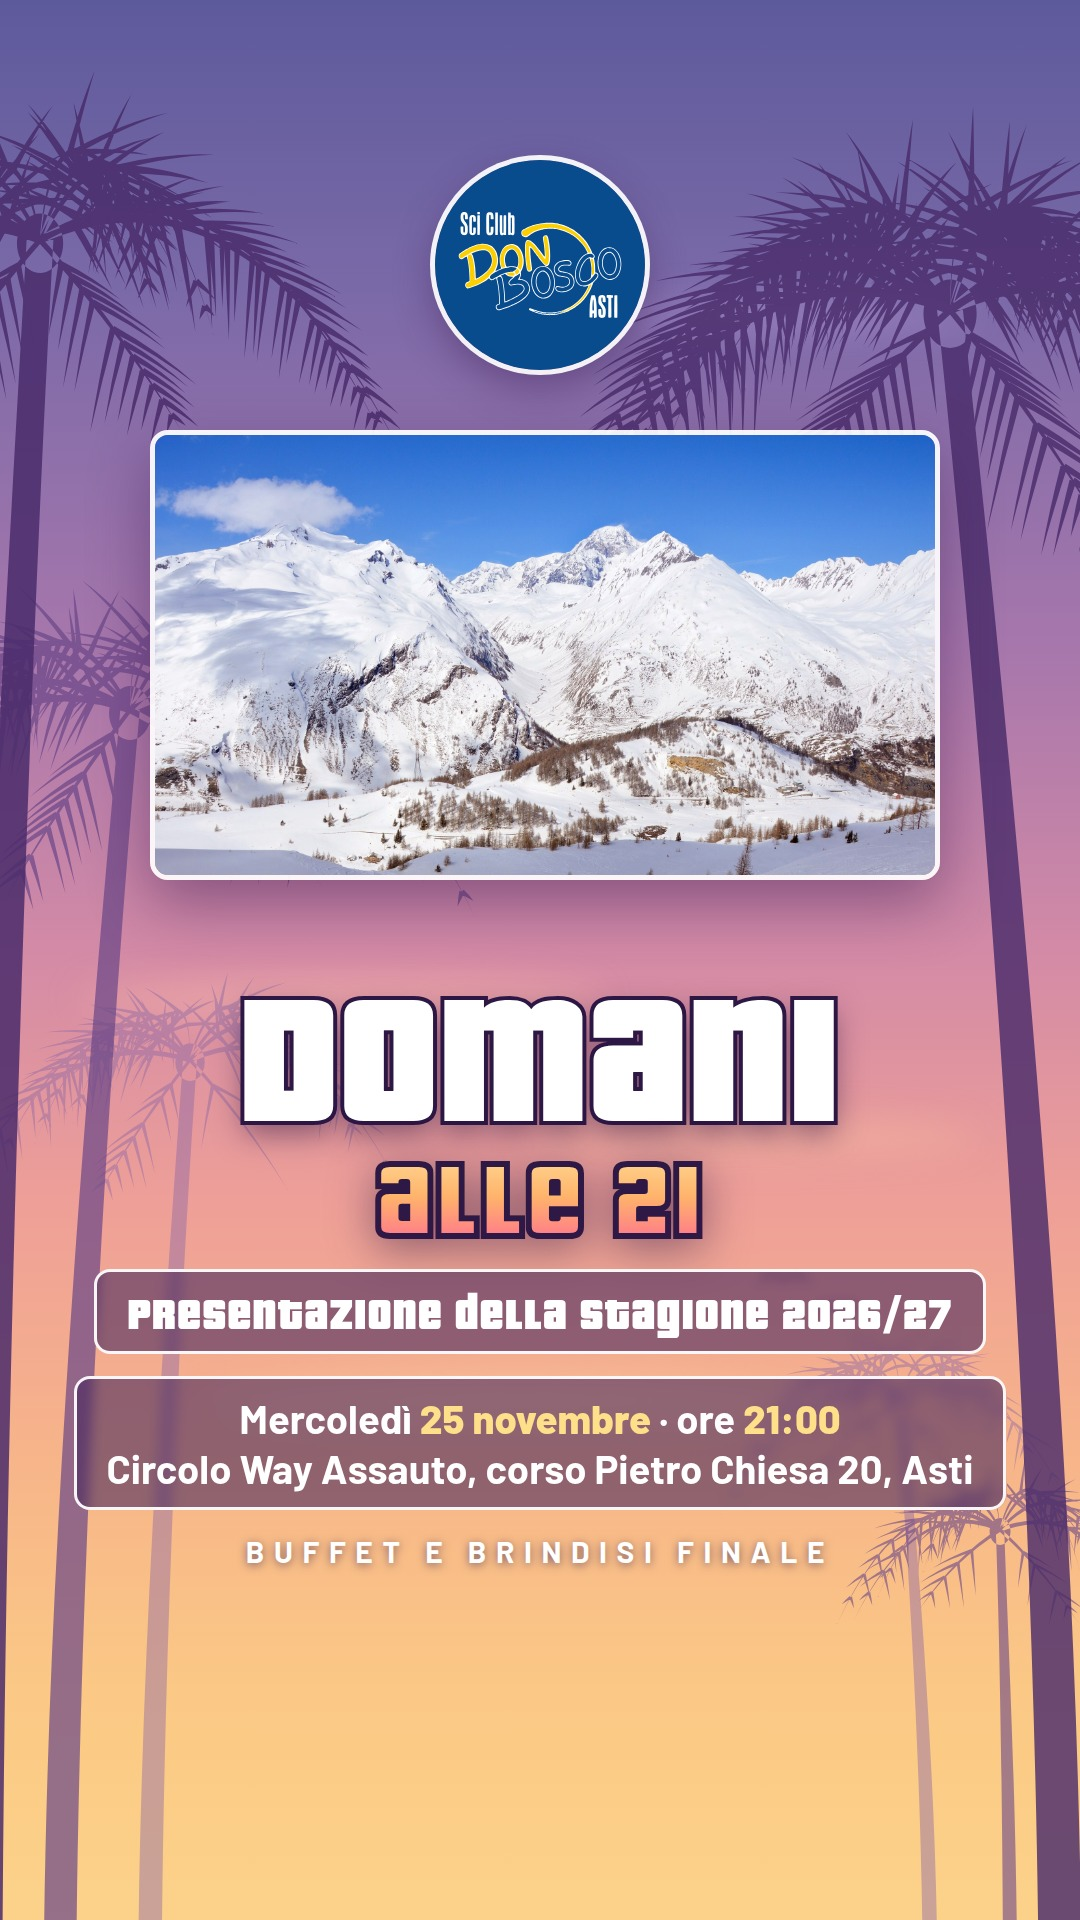
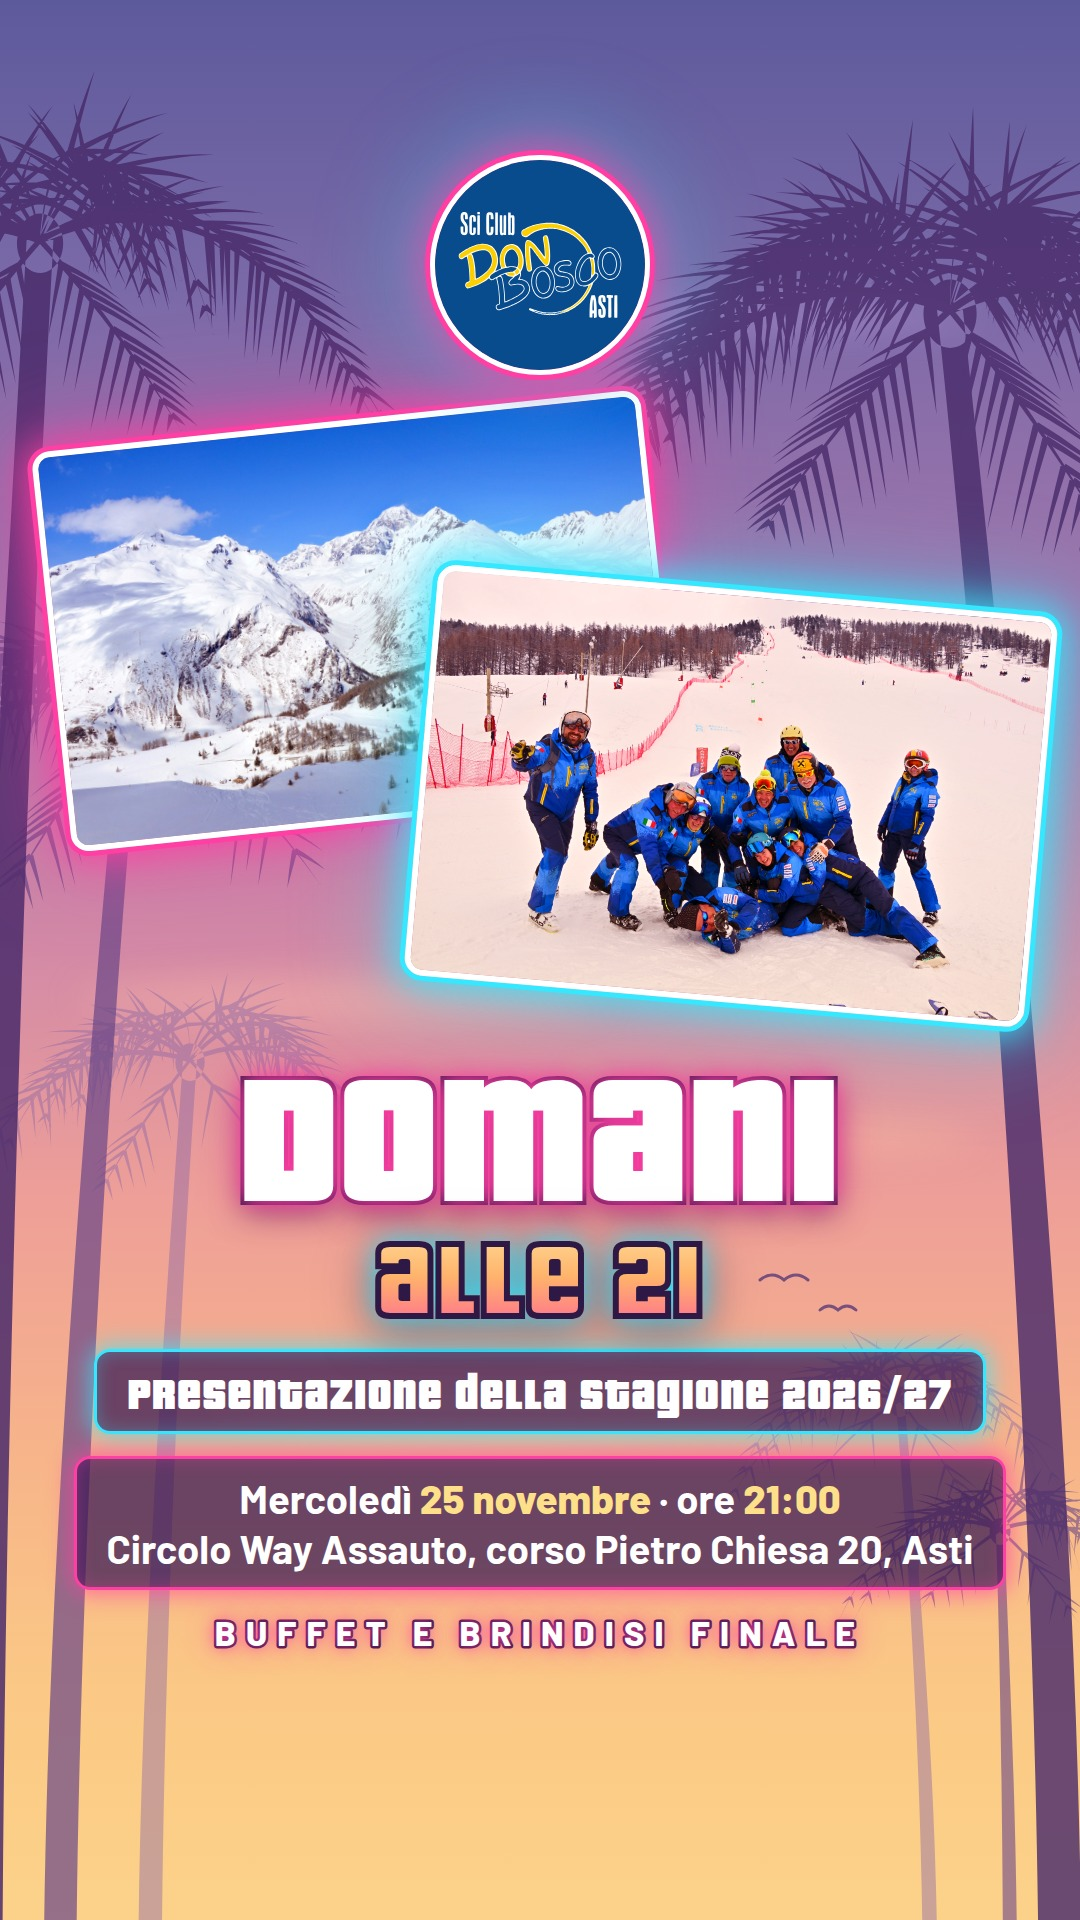
feat(grafica): storie GTA con due foto di sbieco e il neon
Richiesta del 24/11/2026: sfondo e testi invariati; al posto della foto singola il Monte Bianco e
la foto di gruppo (dall'originale nitido del volantino) di sbieco, con le cornici al neon rosa e
azzurro; luce al neon sulle scritte, sui riquadri delle informazioni e attorno al logo; «Buffet e
brindisi finale» in bianco col bordo viola, leggibile sul pesca. PRONTO [] per entrambe.

diff --git a/grafica/lancio-stagione/sorgenti/storie-gta.html b/grafica/lancio-stagione/sorgenti/storie-gta.html
@@ -24,31 +24,38 @@
     .nuvola { position: absolute; border-radius: 50%; filter: blur(18px); }
     .palme { position: absolute; left: 0; top: 0; width: 1080px; height: 1920px; }
 
-    /* La foto della montagna, frontale, con il bordo bianco sottile e l'ombra morbida. */
-    .foto { position: absolute; left: 150px; top: 430px; width: 780px; height: 440px; z-index: 3; border-radius: 18px; overflow: hidden;
-      border: 5px solid rgba(255, 255, 255, .92); box-shadow: 0 24px 60px rgba(60, 25, 80, .45); }
-    .foto img { width: 100%; height: 100%; object-fit: cover; object-position: 70% 30%; display: block; filter: saturate(1.15); }
+    /* Due foto di sbieco (richiesta del 24/11): il Monte Bianco e il gruppo, con la cornice al neon rosa e azzurra. */
+    .foto { position: absolute; z-index: 3; border-radius: 18px; overflow: hidden; border: 6px solid #fff; }
+    .foto img { width: 100%; height: 100%; object-fit: cover; display: block; filter: saturate(1.3) contrast(1.05); }
+    .foto.monte { left: 50px; top: 420px; width: 600px; height: 390px; transform: rotate(-6deg);
+      box-shadow: 0 0 0 5px #ff3fa4, 0 0 34px 10px rgba(255, 63, 164, .8), 0 0 90px 24px rgba(255, 63, 164, .35); }
+    .foto.gruppo { left: 420px; top: 590px; width: 610px; height: 400px; transform: rotate(5deg); z-index: 4;
+      box-shadow: 0 0 0 5px #35e8ff, 0 0 34px 10px rgba(53, 232, 255, .8), 0 0 90px 24px rgba(53, 232, 255, .35); }
     .foto::after { content: ""; position: absolute; inset: 0; mix-blend-mode: soft-light;
-      background: linear-gradient(180deg, rgba(150, 120, 200, .55), rgba(255, 170, 130, .5)); }
+      background: linear-gradient(180deg, rgba(180, 110, 220, .5), rgba(255, 140, 120, .5)); }
 
     #logo { position: absolute; left: 50%; top: 160px; width: 210px; height: 210px; transform: translateX(-50%); z-index: 6;
-      border-radius: 50%; box-shadow: 0 0 0 5px rgba(255, 255, 255, .92), 0 16px 40px rgba(60, 25, 80, .45); }
+      border-radius: 50%; box-shadow: 0 0 0 5px #fff, 0 0 0 10px #ff3fa4, 0 0 40px 14px rgba(255, 63, 164, .7), 0 0 90px 30px rgba(53, 232, 255, .35); }
 
     /* Scritte: Pricedown bianco col bordo viola scuro, come le scritte del gioco; le informazioni in riquadri
      * velati col bordo bianco, che si leggono anche sul pesca del tramonto. */
-    .testi { position: absolute; left: 60px; right: 60px; top: 960px; z-index: 7; text-align: center; }
+    .testi { position: absolute; left: 60px; right: 60px; top: 1040px; z-index: 7; text-align: center; }
     .grande { font: 900 190px/0.9 Pricedown, sans-serif; letter-spacing: .01em; color: #fff;
-      -webkit-text-stroke: 8px #2d1846; paint-order: stroke fill; text-shadow: 0 12px 30px rgba(45, 24, 70, .55); }
+      -webkit-text-stroke: 8px #2d1846; paint-order: stroke fill;
+      text-shadow: 0 0 18px #ff3fa4, 0 0 42px rgba(255, 63, 164, .85), 0 12px 30px rgba(45, 24, 70, .55); }
     .ora { margin-top: 4px; font: 900 112px/1 Pricedown, sans-serif; letter-spacing: .02em;
       background: linear-gradient(180deg, #ffe7a3 0%, #ffb36b 55%, #ff6f91 100%); -webkit-background-clip: text; background-clip: text;
-      color: transparent; -webkit-text-stroke: 6px #2d1846; paint-order: stroke fill; filter: drop-shadow(0 10px 22px rgba(45, 24, 70, .5)); }
-    .riquadro { display: inline-block; margin-top: 22px; padding: 14px 30px; border: 3px solid rgba(255, 255, 255, .95); border-radius: 16px;
-      background: rgba(58, 30, 88, .55); backdrop-filter: blur(6px); }
+      color: transparent; -webkit-text-stroke: 6px #2d1846; paint-order: stroke fill;
+      filter: drop-shadow(0 0 14px rgba(53, 232, 255, .95)) drop-shadow(0 10px 22px rgba(45, 24, 70, .5)); }
+    .riquadro { display: inline-block; margin-top: 22px; padding: 14px 30px; border: 3px solid #35e8ff; border-radius: 16px;
+      background: rgba(48, 18, 82, .7); box-shadow: 0 0 22px 4px rgba(53, 232, 255, .65), inset 0 0 18px rgba(53, 232, 255, .3); }
+    .riquadro.info { border-color: #ff3fa4; box-shadow: 0 0 22px 4px rgba(255, 63, 164, .65), inset 0 0 18px rgba(255, 63, 164, .3); }
     .titolo { font: 900 46px/1.1 Pricedown, sans-serif; letter-spacing: .03em; }
     .info { font-size: 40px; font-weight: 700; line-height: 1.25; }
     .info b { font-weight: 800; color: #ffe08a; }
-    .spaziato { margin-top: 26px; font: 700 30px/1 Barlow, sans-serif; letter-spacing: .32em; text-transform: uppercase;
-      text-shadow: 0 2px 10px rgba(45, 24, 70, .6); }
+    .spaziato { margin-top: 26px; font: 800 34px/1 Barlow, sans-serif; letter-spacing: .3em; text-transform: uppercase;
+      font-weight: 800; color: #fff; -webkit-text-stroke: 5px #2d1846; paint-order: stroke fill;
+      text-shadow: 0 0 14px #ff3fa4, 0 0 30px rgba(255, 63, 164, .8); }
   </style>
 </head>
 <body>
@@ -125,7 +132,8 @@
 
     const storia = (quando) => `<div class="storia">
       ${NUVOLE}${PALME}
-      <div class="foto"><img src="foto-monte-bianco.jpg" alt=""></div>
+      <div class="foto monte"><img src="foto-monte-bianco.jpg" alt="" style="object-position: 70% 30%"></div>
+      <div class="foto gruppo"><img src="../../volantino/FOTO COPERTINA.JPG" alt="" style="object-position: 48% 55%"></div>
       <img id="logo" src="../../../web/logo-ufficiale-blu-tondo.svg" alt="Sci Club Don Bosco Asti">
       <div class="testi">
         <div class="grande">${quando}</div>

diff --git a/grafica/lancio-stagione/README.md b/grafica/lancio-stagione/README.md
@@ -31,9 +31,10 @@ Le storie del 24 e del 25 novembre hanno come sfondo il Monte Bianco del volanti
 con la vetta tra il logo e la data: la foto di gruppo, piccola (1600×835), nella storia usciva sgranata. Il post e
 le storie già pubblicati restano con la foto di gruppo.
 
-In alternativa, le stesse due storie in stile GTA (richieste del 24/11): la sola foto del Monte Bianco al centro,
-dietro il tramonto morbido (lavanda, rosa e pesca) con le palme in controluce viola semitrasparente su tre piani,
-disegnate in SVG con le foglie piumate, le scritte grandi in Pricedown e il logo ufficiale: `storia-gta-domani.jpg` e
+In alternativa, le stesse due storie in stile GTA (richieste del 24/11): due foto di sbieco, il Monte Bianco e il
+gruppo, con le cornici al neon rosa e azzurro; dietro il tramonto morbido (lavanda, rosa e pesca) con le palme in
+controluce viola semitrasparente su tre piani, disegnate in SVG con le foglie piumate; le scritte grandi in Pricedown
+con la luce al neon, i riquadri delle informazioni col bordo al neon e il logo ufficiale: `storia-gta-domani.jpg` e
 `storia-gta-stasera.jpg`, da `sorgenti/storie-gta.html#domani` e `#stasera`. Pricedown viene dalla raccolta
 gratuita di Typodermic Fonts (typodermicfonts.com, «Free font downloads»): la licenza desktop permette di usarlo
 nelle immagini ma non di ridistribuirlo, quindi non è nel repository; per rifare le storie va installato in
